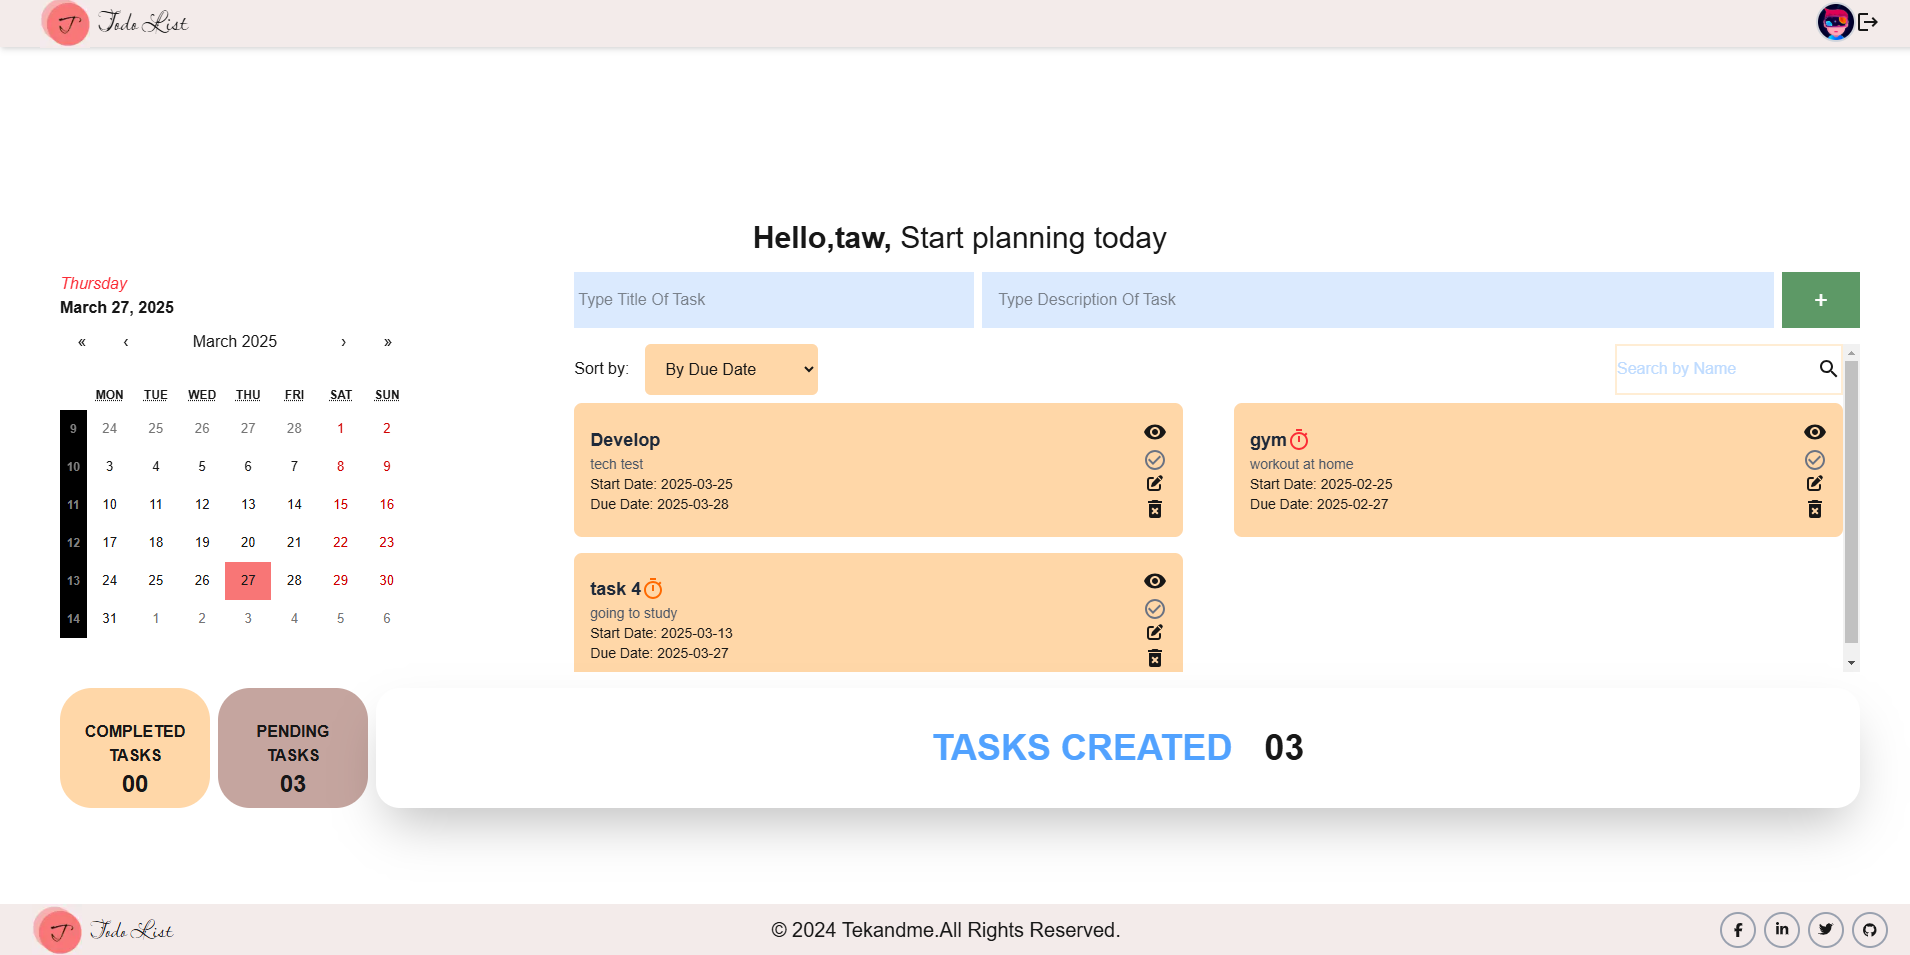
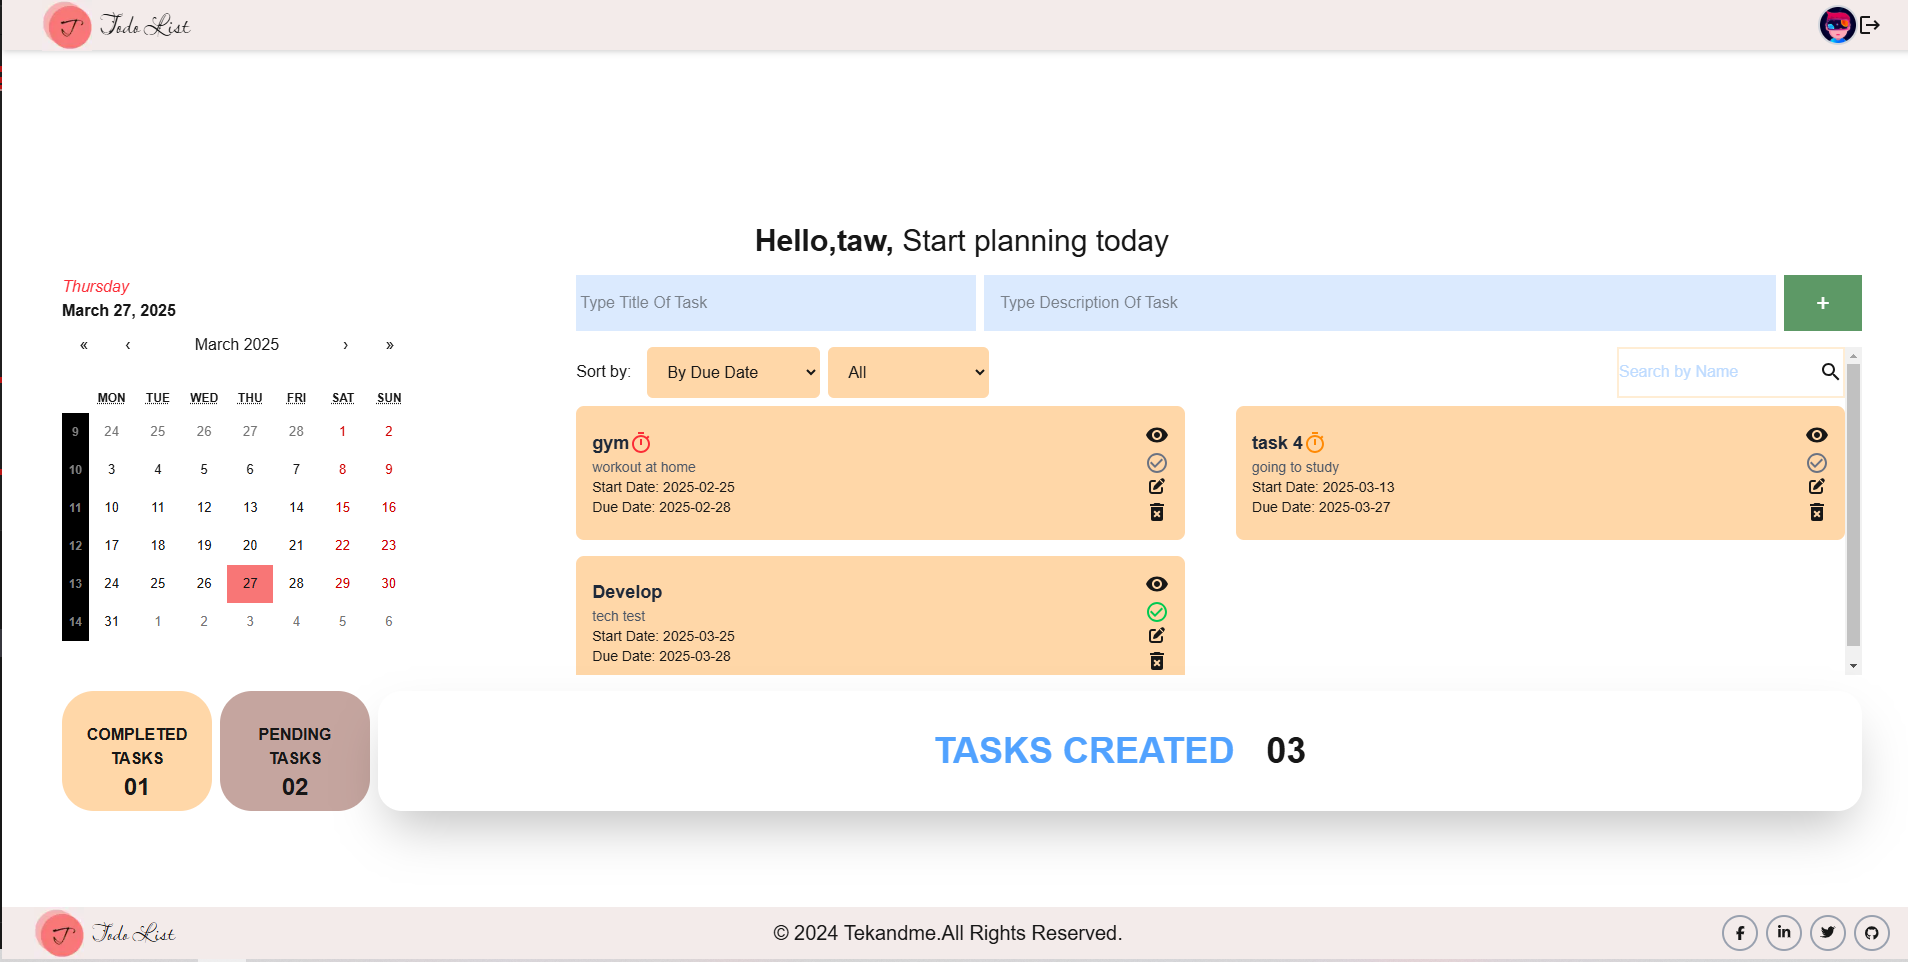
feat:Add Filter by task completion

diff --git a/frontend/src/app/components/TaskList.tsx b/frontend/src/app/components/TaskList.tsx
@@ -16,13 +16,17 @@ const TaskList = ({userInfo}) => {
 const [search, setSearch] = useState("")
 const [selectedTask, setSelectedTask] = useState(null);
 const [sortOption, setSortOption] = useState('endDate')
+const [completedFilter, setCompletedFilter] = useState('all')
 const {sortedTasks,setSortedTasks,token,tasks,setTasks} = useUser()
 
 const filteredTasks = useMemo(() => {
   return tasks?.filter((task) => 
-    task.title.toLowerCase().includes(search.toLowerCase()) || task.description.toLowerCase().includes(search.toLowerCase())
-);
-}, [tasks, search]);
+    (task.title.toLowerCase().includes(search.toLowerCase()) || task.description.toLowerCase().includes(search.toLowerCase())) &&
+    (completedFilter === "all" || 
+     (completedFilter === "completed" && task.completed) || 
+     (completedFilter === "not completed" && !task.completed))
+  );
+}, [tasks, search,completedFilter]);
 
     type Task = {
         id: number;
@@ -130,6 +134,19 @@ const filteredTasks = useMemo(() => {
               >
                 <option value="endDate">By Due Date</option>
                 <option value="created">By Created Date</option>
+              </select>
+              <select
+                id="completed"
+                value={completedFilter}
+                onChange={(e) => {
+                  setCompletedFilter(e.target.value);
+        
+                }}
+                className="p-4 px-4 border-none rounded-md bg-orange-200 cursor-pointer"
+              >
+                <option value="all">All</option>
+                <option value="completed">Completed</option>
+                <option value="not completed">Not Completed</option>
               </select>
             </div>
             <div className="flex items-center border-2 border-orange-100" >
